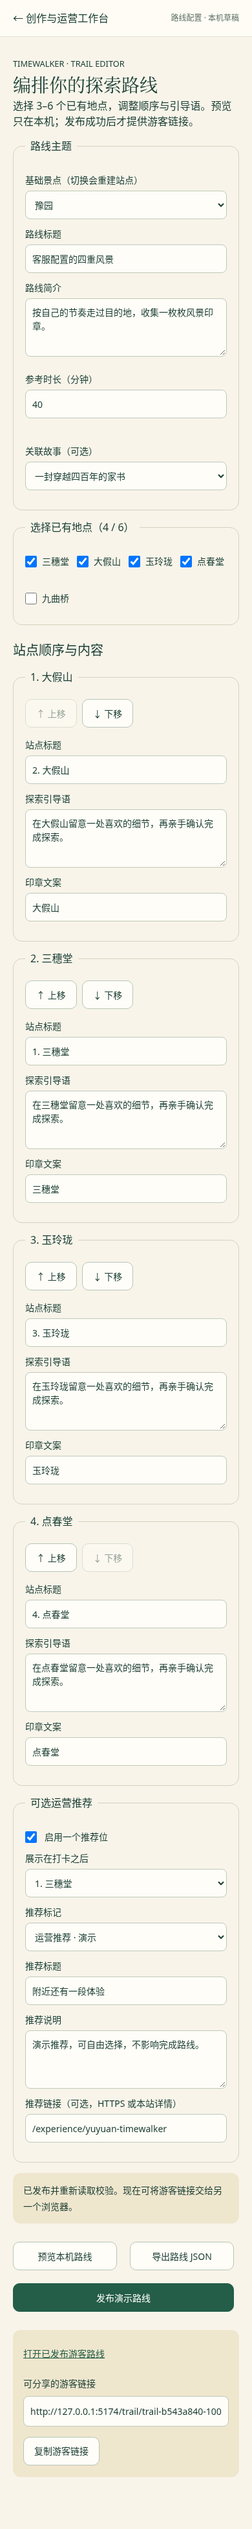
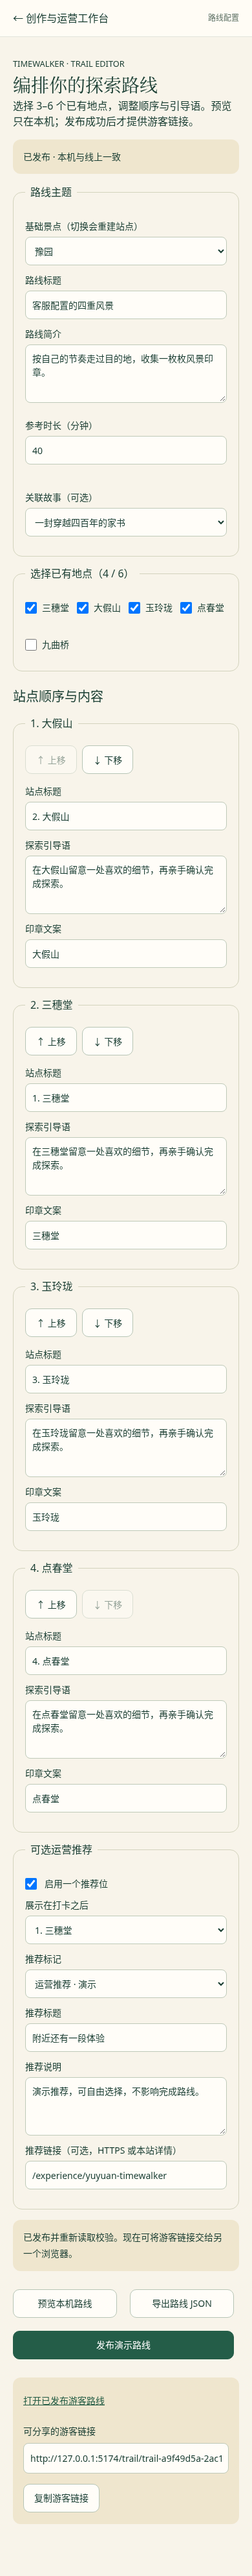
docs: prioritize V3 finish tasks and refresh verified handoff

diff --git a/docs/timewalker_hackathon/docs/03-开发任务拆解.md b/docs/timewalker_hackathon/docs/03-开发任务拆解.md
@@ -1,6 +1,6 @@
 # 当前开发任务板｜V3 双模式交付
 
-更新：2026-10-15。代码基线 `9ff2fe1` + 27 号运营续接切片；方向以 [25 号方案](25-时空漫游者-双模式产品方案与开发规划.md) 为准，实际实现见 [26](26-Trail实现与开发交接.md) / [27](27-运营续接与体验收口.md)。能力见 [导航](README.md)，接手见 [09](09-本地开发交接.md)。
+更新：2026-10-15。代码基线 `424d8c2`；方向以 [25 号方案](25-时空漫游者-双模式产品方案与开发规划.md) 为准，实际实现见 [26](26-Trail实现与开发交接.md) / [27](27-运营续接与体验收口.md)。能力见 [导航](README.md)，接手见 [09](09-本地开发交接.md)。
 
 ## Trail 已交付（不再重复搭建）
 
@@ -17,20 +17,49 @@
 
 已有故事双样板、Studio、研究/生图适配、素材导入导出继续复用，不为 Trail 引入 Agent，不重写 Story V1。
 
-## 下一步领取任务
+## 本轮已完成的完善
 
-| ID | 优先级/状态 | 交付与验收 |
+| ID | 结果 | 证据 |
 |---|---|---|
-| TW-AI-01 | P0 / 待团队凭据 | 用现有 agent:rehearse 对两题材各尝试真实生成，保存请求/模型/耗时和成功候选或失败报告，不把 mock 改成真 |
-| TW-AI-02 | P1 / 待生图账号 | 现有 Studio 给一章实际配图，携带导出→导入→采用→发布；失败可用已有图，不重写 Provider |
-| TW-DEMO-01 | P0 / 可立即做 | 三入口视觉、开场/结尾、两故事预生成 MP3 和可控声音；保留纯文字路径 |
-| TW-DEMO-02 | P0 / 可立即做 | 按 08 五分钟串联三体验、运营发布与 Studio；真机触摸/声音/下载分享；录屏与成功成果备用 |
-| TW-OPS-01 | 已完成 | 发布内容比对、查找、复制已发布版本、独立 JSON 导入、移除本机草稿；127 项 Node 和 Trail 浏览器验证，见 27 |
-| TW-OPS-02 | 已完成 | 手机长标题/简介展开、站点说明/推荐/印章换行、完整 Unicode 标题 SVG；128 项 Node、320/390px Trail、Studio/Creator 复验，见 27 |
-| 更自由剧本/自动 TTS | P2 / 后续增强 | 在现有候选契约上逐步扩展；不挤占 V3 演示，音频持久服务尚未实现 |
-| Deep Agents / 持久 Job | P2 / 暂缓 | 先验证真实 tool_calls，再封装已有工具；图片缓存和浏览器恢复不等于 Job 续跑 |
+| TW-OPS-01 | 发布内容比对、查找、复制已发布版本、独立 JSON 导入、移除本机草稿 | `6640579`；原文件与游客进度保留，目录故障标未核实 |
+| TW-OPS-02 | 长简介展开、手机长文案/印章换行、完整 Unicode 标题 SVG、异步离页保护 | `424d8c2`；128 项 Node、320/390px Trail、Studio/Creator 复验；完整轮次见 27 |
 
-缺凭据时优先做声音、真机和演示；不等待、不伪造成功。**支付、佣金、GPS、防作弊、扫码核销、真实经营报表、第二条 Trail、素材署名许可审核不进入本轮任务。**
+## 下一步领取任务（按验收顺序）
+
+估时为单人有效工作量建议，不是承诺日期。A/B/C/D 为工作线建议，由团队自行认领；不要多人重复改同一入口。
+
+| ID | 优先级 / 依赖 | 建议工作线 / 估时 | 最小成果与验收 |
+|---|---|---|---|
+| TW-AI-01 | P0 / 待团队模型凭据 | C / 0.5 日 | 两题材各真实尝试一次；请求/模型/耗时/候选或失败报告；成功候选导入 Studio→采用独立草稿→预览/发布 |
+| TW-DEMO-01 | P0 / 旁白可人工录制；设备需团队提供 | D / 0.5 日 | 两故事开场与结尾预制音频；明确静音/手动开声/失败继续文字；不依赖新 TTS 服务 |
+| TW-DEMO-02 | P0 / 真机与演示环境 | D + 集成人 / 0.5 日 | 08 五分钟从首页连续走完；iOS/Android 实测触摸、声音、刷新、卡片下载，保留录屏/卡片/失败兜底 |
+| TW-AI-02 | P1 / 待生图账号，AI-01 成功候选可复用 | C / 0.5 日 | Studio 为一章真实配图，携带导出→新环境导入→采用→发布；关闭素材网关仍可读取新包图片 |
+| TW-DEPLOY-01 | P1 / 可独立开发；不阻塞本地 Web 演示 | A / 0.5 日 | 将导出 Trail JSON 纳入静态部署的命令工具，校验基础包/故事/索引，避免人工漏改 catalog；不新增 CMS |
+| TW-EVENT-01 | P1 / 可独立开发；可视事件已存在 | B / 0.25 日 | 将本机实际事件导出为 JSON，注明浏览器范围/上限；不增加假订单、收入或跨设备指标 |
+| 更自由剧本 / 自动 TTS | P2 / 后续增强 | C | 在现有候选契约上扩展，不挤占 V3；云端音频持久服务尚未实现 |
+| Deep Agents / 持久 Job | P2 / 暂缓 | C | 先验证真实 tool_calls，再封装已有工具；图片缓存和浏览器恢复不等于 Job 续跑 |
+
+### TW-AI-01：拿到配置后直接执行
+
+1. 配置应用 `.env.server.local` 的 `DEEPSEEK_API_KEY` 等实际变量，重启 API；不要将值提交到 Git。先查看 `/api/health` 的配置状态，再真实请求判断可用性。
+2. 运行 `npm run agent:rehearse -- --attraction yuyuan-timewalker`、`npm run agent:rehearse -- --attraction shanghai-planetarium --concept 2`。Tavily 配好后再加 `--research`；不要将缺研究 Key 变成模型彩排的前置阻塞。
+3. 备份 `.agent-jobs/rehearsals` 中真实返回的 `*.studio.json` 与请求证据，导入 `/publish`。采用成新 ID 草稿，检查地点/素材/分支后发布；不替换两个手工固定样板。失败保留真实错误与上游阶段，不重复无界重试。
+4. 在 27 后续记录中写模型/时间/对应作品及实际失败。自动化替身不算此任务完成；只有失败报告表示已尝试，成功作品验收仍未达成。
+
+### TW-DEMO-01/02：内容与现场，不再先搭平台
+
+1. 复用已有 narration/audio、静音开关与文字回退。先给两份故事各准备开场、收尾的短 MP3（团队录音或已有 TTS 账号均可），明确哪些是人工录制/预生成。检查文本一致与音量；不要新接服务只为增加技术名词。
+2. 素材放入对应 `public/experience-assets/<id>/`，更新体验包资源引用；经现有编辑器/校验/打包链，测试首次默认静音、点按开声、切幕停止旧音、丢音频仍可继续。
+3. 内容更改后重新 build、`test:dual`/`test:playability` 和 `test:offline`；离线清单/大小受实际 MP3 影响。没有真实手机前只写桌面 Chromium 证据。
+4. 团队在真机和答辩浏览器按 08 计时，运营环节优先复制固定已发布版本，改一处并发布，用全新浏览器确认链接。生成慢时展示已保存产物，断网时按 07 用已准备的双故事与录屏兜底。
+
+### 下一位工程成员可直接接 TW-DEPLOY-01
+
+读取 `vite-plugin-trail-export.ts` 与 `src/trail/trailSchema.ts`，提取可复用静态写入逻辑，不另写宽松校验器。命令输入编辑器导出的 JSON，默认不覆盖已有路线，显式选项才允许替换；同时更新目录并回读。失败保持原文件/索引。测试在临时目录验证非法引用、已有 ID、目录损坏与成功后 build/preview 可访问；不要让测试写固定样板。此任务是部署准备，不是远程发布/生产鉴权后台。
+
+**当前外部依赖证据（2026-10-15）：** 当前进程未注入模型/搜索/生图 Key，应用无 `.env.server.local`，存活网关报告模型未配置。只检查存在性，不打印值。团队配置后重启并真实联调；现有适配器不需重做。真机与录屏、实际旁白文件尚未交付。
+
+缺凭据时可并行推进演示内容与独立工程任务，不伪造成功。**支付、佣金、GPS、防作弊、扫码核销、真实经营报表、第二条 Trail、素材署名许可审核不进入本轮任务。**
 
 ## 工作线与交接
 

diff --git a/docs/timewalker_hackathon/docs/团队开工速览与任务分工.md b/docs/timewalker_hackathon/docs/团队开工速览与任务分工.md
@@ -1,8 +1,8 @@
 # 时空漫游者｜团队开工速览与分工
 
-> **实施更新（2026-10-15）：** Trail 契约、豫园游客闭环、运营编辑与真实静态发布、推荐/事件和模式联动已落地，详见 [26](26-Trail实现与开发交接.md)。本文基于 e39dbd39 的“尚无/待建”是立项时状态；当前执行任务见 [03](03-开发任务拆解.md)，不要据此重做。
+> **实施更新（2026-10-15）：** Trail 契约、豫园游客闭环、运营编辑与真实静态发布、推荐/事件和模式联动已落地，详见 [26](26-Trail实现与开发交接.md)；运营续接与体验收口见 [27](27-运营续接与体验收口.md)。当前已按已交付状态更新分工；执行任务以 [03](03-开发任务拆解.md) 为准，不从立项设计重新领取已完成任务。
 
-> 对应完整方案：[25-时空漫游者-双模式产品方案与开发规划](25-时空漫游者-双模式产品方案与开发规划.md)。编写日期 2026-10-15；评审对象 `feature/timewalker-dual-samples` / `e39dbd39`。本文是开发建议，不代表新增功能已实现。
+> 对应完整方案：[25-时空漫游者-双模式产品方案与开发规划](25-时空漫游者-双模式产品方案与开发规划.md)。更新日期 2026-10-15；当前代码 `feature/timewalker-dual-samples` / `424d8c2`。本页为分工摘要，任务状态以 03 为唯一来源。
 
 ## 我们统一的三个决定
 
@@ -16,39 +16,34 @@
 
 完成 3 个游客入口（豫园故事、天文馆故事、豫园四站打卡）、1 个运营创作入口（路线编辑器 + 已有 Creative Studio）、1 套共用目的地数据和一个故事完成后进入打卡的联动。必须运行在真实的 Web 浏览器中。商业闭环不等于支付系统上线；故事和打卡之间互相推荐但互不依赖。
 
-## 直接分工（4 条工作线可并行）
+## 当前分工（先看已交付，再领剩余项）
 
-| 工作线 | 今天第一项 | 第一个可合并成果 | 后续任务 |
+| 工作线 | 已交付，不再重建 | 现在可领取 | 依赖 |
 |---|---|---|---|
-| A 数据与运营发布 | 冻结 `TrailDefinitionV1` 与四站 fixture | `assertTrail` + `/data/trails/yuyuan-four-sights.json` 加载通过 | TrailEditor、导出/开发态发布、分享 URL |
-| B 游客 Trail | 在 A 契约基础上做打卡页面 | 四站手动确认、刷新恢复、完成卡 | 推荐卡、事件记录、故事→路线入口 |
-| C AI 创作能力 | 使用团队凭据运行现有 `agent:rehearse` | 至少一份真实模型的可导入候选，记录请求与耗时 | Seedream 真实配图联调、实用音效；不先迁移 Deep Agents |
-| D 内容与演示 | 制作双故事 + 一 Trail 的 5 分钟片段 | 演示脚本、入口文案、主视觉与失败兜底 | 手机试玩、录屏、更新答辩文档 |
+| A 数据与运营发布 | Trail 契约、四站、编辑/开发态发布/回读、JSON 导入与复制 | TW-DEPLOY-01：静态部署导入工具；默认不覆盖、同步目录、实际回读 | 无新增账号；P1，不抢演示 P0 |
+| B 游客与运营体验 | 四站/进度/纪念卡、推荐/事件、Story 互通、长文案/状态/草稿管理 | TW-EVENT-01：实际本机事件导出；协助真机反馈修复 | 无新增账号；不做商业报表 |
+| C AI 创作 | Studio、研究/生图适配、可携带素材、彩排 CLI | TW-AI-01：真实模型作品；TW-AI-02：真实配图并迁移/发布 | 团队凭据；配置后重启服务 |
+| D 内容与演示 | 08 操作稿、三入口与固定双故事离线、桌面自动化证据 | TW-DEMO-01：开场/收尾声音；TW-DEMO-02：真机、计时、录屏、兜底 | 团队录音/素材、真实手机和演示网络 |
 
 **共享代码争用：** A 优先拥有 `trailSchema`/静态导出；B 优先拥有 `/trail` UI；C 负责 `server/agent`/Studio 接口；D 维护答辩稿与样板内容。`App.tsx`、`HomePage.tsx` 指定一位集成人，避免多人并发覆盖。
 
-## 5 日推进的验收线
+## 原五日目标的当前验收状态
 
 | 日期 | 保底验收 |
 |---|---|
-| D1 | 合法 Trail 静态包可读；游客四站页面能打开；双方不再争论接口格式 |
-| D2 | 游客手动打卡与完成卡从头到尾可用，刷新进度不丢 |
-| D3 | 客服/运营编辑顺序并真实发布/导出；另一个浏览器打开对应新路线 |
-| D4 | 故事与路线互跳；演示推荐可见、点击事件可查看；AI 至少完成一次实际彩排或保存失败报告 |
-| D5 | 三份体验+运营配置+Studio 预制成果五分钟串讲；Build/Lint/Node 测试与浏览器冒烟、真机回归 |
+| D1 · 已完成 | 合法 Trail 静态包可读；游客四站页面能打开；双方不再争论接口格式 |
+| D2 · 已完成 | 游客手动打卡与完成卡从头到尾可用，刷新进度不丢 |
+| D3 · 已完成 | 客服/运营编辑顺序并真实发布/导出；另一个浏览器打开对应新路线 |
+| D4 · Web 完成，真实 AI 未完成 | 故事/路线互跳、推荐和实际浏览器事件已通过；AI 真实作品仍待团队配置 |
+| D5 · 剩余重点 | 三份体验+运营配置+Studio 预制成果五分钟串讲；Build/Lint/Node 测试与浏览器冒烟、真机回归 |
 
-**如果时间缩减**：保住故事双样板与游客 Trail 闭环；运营配置可以暂时由开发者编辑 JSON，但不能自称“客服可发布”。先砍报表、第二条 Trail、复杂积分，再考虑缩减推荐位。
+**如果时间缩减**：保持已交付的双故事、游客 Trail 和运营配置/发布闭环；集中完成预制作品与五分钟演示。不新增报表、第二条 Trail 或复杂积分。
 
-## 今晚必须确认的四件事
+## 已确认的架构与剩余资源
 
-1. 是否把 Trail 作为独立 `/trail/:id` 入口？建议是；不重构 `/experience/:id`。
-2. 运营发布是否仅需开发态静态写文件 + JSON 导出？建议是；不做生产级账号权限。
-3. 商业推荐是否只是“可配置演示卡 + 点击事件”，无真实商户？建议是；如果有真实合作，单独核对目标链接。
-4. AI 是否首先完成真实凭据联调、把成功产物导入现有 Studio？建议是；Deep Agents 暂时 P2。
+独立 `/trail/:id`、开发态真实静态发布 + JSON 降级、一个可选演示推荐、显式故事联动均已实现。当前不再对这些重新立项。运营换环境可导入 JSON；素材仍依赖同一基础景点包；本机草稿/事件不随 Git 迁移。
 
-## 项目当前代码的真实边界
-
-已有：两份故事、主题与播放器、图形编辑器、Creative Studio 双概念/分幕/编译、Tavily Search/Extract 和 Seedream 生图适配、素材与成果迁移、离线双样板。**真实供应商成功调用仍缺团队凭据验证**。没有：Trail 契约/页面/运营路线编辑器、Deep Agents 框架集成、生产支付与分佣系统。最近一次阶段文档记载 117 项 Node 测试通过，但本次未重新执行。
+剩余需要团队安排的资源是模型/生图配置、短旁白音频、真机与录屏，具体执行/验收步骤在 03。Deep Agents、生产支付和分佣仍在本轮之外。最近代码验证基线为 27 的 128 项 Node、build/lint 及本轮浏览器记录；旧日志的测试数保留为历史。
 
 ---
 

diff --git a/docs/timewalker_hackathon/docs/08-五分钟答辩讲稿.md b/docs/timewalker_hackathon/docs/08-五分钟答辩讲稿.md
@@ -1,11 +1,11 @@
 # V3 五分钟答辩｜双故事、路线与运营
 
-更新：2026-10-15。方向见 [25](25-时空漫游者-双模式产品方案与开发规划.md)，实际实现见 [26](26-Trail实现与开发交接.md)，能力/证据见 [导航](README.md)。以下是可执行 Web 操作稿，时间为彩排预算，仍需人工计时。
+更新：2026-10-15。方向见 [25](25-时空漫游者-双模式产品方案与开发规划.md)，实际实现见 [26](26-Trail实现与开发交接.md) / [27](27-运营续接与体验收口.md)，能力/证据见 [导航](README.md)。以下是可执行 Web 操作稿，时间为彩排预算，仍需人工计时。
 
 ## 演示前准备
 
 - 三入口：豫园故事、天文馆讯号、`/trail/yuyuan-four-sights`。故事提前准备离线；Trail 本轮需联网。
-- `/publish` 顶部运营路线管理，预备一份新路线草稿；真实开发态发布演示需 `npm run dev:full`，静态托管只展示导出，不能说已在线发布。
+- `/publish` 顶部运营路线管理，可用「复制已发布版本」预备一份新 ID 路线草稿；真实开发态发布演示需 `npm run dev:full`，静态托管只展示导出，不能说已在线发布。
 - Studio 导入一份已完成成果。真实 Provider 产物与固定手工样板、本地模板、自动化 fixture 分开说明；现场不赌长模型/生图请求。
 - 准备 320/390px 画面、录屏和已下载卡片；真实手机上的声音、分享、下载另行试过再现场用。
 - 演示进度和导演跳幕明确说明，不把点击/跳幕称为实地到站或消费核验。
@@ -18,11 +18,11 @@
 | 0:30–1:20 | 豫园一次选择、个人观察与手账片段 | 「不是回答标准答案；你的选择改变叙事，自己的发现进入旅程记录。家书是文学创作。」 |
 | 1:20–1:55 | 天文馆开场、手动展区、航行记录 | 「从园林家书到深空讯号，同一契约和引擎，明显不同的主题表达；不使用室内定位。」 |
 | 1:55–2:55 | Trail 手动四站、印章、可选推荐、纪念卡 | 「路线独立于故事，按顺序手动探索。推荐可跳过，实际点击留在本机事件记录中，不代表订单。」 |
-| 2:55–3:35 | `/publish` 新建探索路线，改一处顺序/说明，发布后打开游客链接 | 「运营人员选已有地点、改说明，就能交付路线。开发服务真实写文件并回读，全新浏览器也能打开；本机草稿与发布有区别。」 |
+| 2:55–3:35 | `/publish` 复制已发布版本或新建路线，改一处顺序/说明，发布后打开游客链接 | 「运营人员选已有地点、改说明，就能交付路线。开发服务真实写文件并回读，全新浏览器也能打开；本机草稿与发布有区别。」 |
 | 3:35–4:30 | Studio 两概念、节拍、已保存插画、采用并编辑 | 「AI 帮故事制作，确定性工具负责路线配置。模型产物经校验成为可编辑草稿；不必为简单打卡引入智能体。」 |
 | 4:30–5:00 | 统一底座与商业边界 | 「共享目的地内容，分别承载故事与路线。今天证明可用、可配置、可分发和可观察；真实交易收入留给后续合作验证。」 |
 
-建议提前停在关键片段，不逐字朗读两篇故事。Trail 只有四次确认，可现场完整完成；若使用预置进度则明确说明。现场新建路线生成独立 ID，不覆盖固定样板。修改后点「发布演示路线」，看到“已发布并重新读取校验”再复制链接。
+建议提前停在关键片段，不逐字朗读两篇故事。Trail 只有四次确认，可现场完整完成；若使用预置进度则明确说明。现场新建、复制或导入路线均生成独立 ID，不覆盖固定样板。修改后点「发布演示路线」，看到“已发布并重新读取校验”再复制链接。
 
 ## 八页幻灯片
 
@@ -46,6 +46,6 @@
 | 有 GPS/图像识别/核销吗？ | 没有。手动确认与观察，位置和商业履约不作真实核验 |
 | Agent 是自主执行吗？ | 当前为已接入的分阶段创作/研究/生图服务；Deep Agents 自主编排仍是后续增强 |
 | 跨设备报表呢？ | 事件当前仅存本浏览器；另一浏览器可读已发布路线，但不共享事件和草稿 |
-| 技术验证多少？ | 当前 Node 125 项、build/lint 通过；浏览器最新收口结果引用 26，真实供应商和真机单列 |
+| 技术验证多少？ | 最新收口 Node 128 项、build/lint 和四套浏览器通过（27）；此前八套见 26，真实供应商和真机单列 |
 
 商业主张是可制作和分发的体验产品，不是当场证明尚未发生的收入。素材署名/许可复核不作为本轮开发或答辩门槛。

diff --git a/docs/timewalker_hackathon/docs/09-本地开发交接.md b/docs/timewalker_hackathon/docs/09-本地开发交接.md
@@ -1,6 +1,6 @@
 # 本地开发交接｜当前接手指南
 
-更新：2026-10-15；代码基线 `feature/timewalker-dual-samples` / `9ff2fe1` + [27 号续接切片](27-运营续接与体验收口.md)。状态与验证轮次见 [README](README.md)，排期只查 [03](03-开发任务拆解.md)。V3 Trail 已实现：首条游客入口 `/trail/yuyuan-four-sights`，运营新建 `/publish/trails/new`，编辑 `/publish/trails/:id`；实现详情见 [26](26-Trail实现与开发交接.md)。
+更新：2026-10-15；代码基线 `feature/timewalker-dual-samples` / `424d8c2`（[27 号续接切片](27-运营续接与体验收口.md)）。状态与验证轮次见 [README](README.md)，排期只查 [03](03-开发任务拆解.md)。V3 Trail 已实现：首条游客入口 `/trail/yuyuan-four-sights`，运营新建 `/publish/trails/new`，编辑 `/publish/trails/:id`；实现详情见 [26](26-Trail实现与开发交接.md)。
 
 ## 1. 先拿对代码
 
@@ -79,7 +79,7 @@ npm run lint
 npm run build
 ```
 
-最近运营续接切片：127 项 Node、build/lint、Trail Chromium 通过。此前 26 号 V3 轮次：125 项 Node、build/lint、八套 Chromium（含新 Trail）通过。117 项/五套与 112 项/七套属于此前素材与研究阶段。迁移后需要自己实际运行，不能把历史结果当作新机器验收。
+最近运营/长文案收口：128 项 Node、build/lint、Trail/Studio/Creator/Offline 四套 Chromium 通过。此前 26 号 V3 轮次：125 项 Node、build/lint、八套 Chromium（含新 Trail）通过。117 项/五套与 112 项/七套属于此前素材与研究阶段。迁移后需要自己实际运行，不能把历史结果当作新机器验收。
 
 浏览器脚本需要可用 Playwright/Chromium，但没有加入项目依赖。可用本机安装的包和浏览器，按需设置 `TIMEWALKER_PLAYWRIGHT_MODULE`、`TIMEWALKER_CHROMIUM`。在前后端启动后执行：
 
@@ -154,4 +154,4 @@ JS
 
 ## 8. 可复制给下一位编码助手
 
-> 继续开发 melxy1997/hackathon-trip-guide。先读 docs/timewalker_hackathon/docs/README.md、09-本地开发交接.md 和 03-开发任务拆解.md。保留本地修改，基于 feature/timewalker-dual-samples 最新 HEAD；应用在 tour-hub-web，Node 24。Agent 链、双故事和 V3 Trail 游客/运营/真实静态发布已实现，不要重做；按 25 的方向与 26 的现状推进；按 03 领取下一项。实际配置以 server/index.ts 与 .env.server.example 为准，密钥只在服务端；缺凭据继续独立工作。记录实际验证，不把模板/替身/手工样板说成真实服务成功。优先快速可用和演示效果，不分配素材署名许可审核。按切片 commit/push，更新导航、任务板与受影响操作文档，保留成员并行提交。
+> 继续开发 melxy1997/hackathon-trip-guide。先读 docs/timewalker_hackathon/docs/README.md、09-本地开发交接.md 和 03-开发任务拆解.md。保留本地修改，基于 feature/timewalker-dual-samples 最新 HEAD；应用在 tour-hub-web，Node 24。Agent 链、双故事和 V3 Trail 游客/运营/真实静态发布已实现，不要重做；按 25 的方向与 26/27 的现状推进；按 03 领取下一项。路线独立 JSON 导入/复制、发布状态识别和长文案收口也已完成。实际配置以 server/index.ts 与 .env.server.example 为准，密钥只在服务端；缺凭据继续独立工作。记录实际验证，不把模板/替身/手工样板说成真实服务成功。优先快速可用和演示效果，不分配素材署名许可审核。按切片 commit/push，更新导航、任务板与受影响操作文档，保留成员并行提交。

diff --git a/docs/timewalker_hackathon/docs/27-运营续接与体验收口.md b/docs/timewalker_hackathon/docs/27-运营续接与体验收口.md
@@ -34,13 +34,16 @@ SVG 纪念卡移除旧的 22 字截断，按完整 grapheme（含组合 Emoji）
 
 另补充异步续接保护：导入/复制正在读取基础包时离开工作台，旧响应不会创建幽灵草稿或把用户带回编辑器。
 
-切片二实际验证：**128/128 Node、build、lint 无警告通过**。扩展 `test:trail` 已通过：真实临时发布长文案路线，320/390px 展开/收起与文字边界、100/1000/600/20 字边界、全程四站、印章容纳、下载 SVG 全标题与每个文本的实际 BBox 均在画布内；另覆盖导入途中离页不写草稿。Studio 与 Creator 浏览器套件复验通过（Provider 使用明确的替身，不是实际账号）。最终构建离线回归结果在收口记录中补充。
+切片二实际验证：**128/128 Node、build、lint 无警告通过**。扩展 `test:trail` 已通过：真实临时发布长文案路线，320/390px 展开/收起与文字边界、100/1000/600/20 字边界、全程四站、印章容纳、下载 SVG 全标题与每个文本的实际 BBox 均在画布内；另覆盖导入途中离页不写草稿。Studio 与 Creator 浏览器套件复验通过（Provider 使用明确的替身，不是实际账号）。最终构建的 `test:offline` 也通过：真实 Worker 准备/损坏回滚/版本更新、豫园五轮与天文馆两分支、刷新/新标签/下载、缓存逐出与定向清理。
 
 ## 本轮提交
 
 - `6640579 feat(trail): support portable route drafts and publication status`：路线续接、发布状态、运营管理与首批交接。
-- 长文案与纪念卡切片另行提交；测试和脚本均保留真实文件写入/下载断言。
+- `424d8c2 fix(trail): preserve long copy and complete souvenir titles`：长文案、完整纪念卡、异步离页保护与回归。
+- 本轮共四套浏览器验收（Trail、Studio、Creator、Offline）。Builder、Dual、Smoke、Playability 本轮未重跑；26 中的八套是此前独立轮次。
+
+文档收口检查：根 README 与本目录相关共 29 份 Markdown、221 个本地链接、23 段 Bash 语法及 npm 脚本名检查通过。三张 Trail 实际界面截图已更新。
 
 ## 下一位接手
 
-按 [03](03-开发任务拆解.md) 领取未完成任务。开发态静态发布不是生产 CMS；本机事件不是跨设备运营报表；Trail 暂不进入固定离线包。不要为演示补做支付/佣金/GPS、第二条 Trail 或 Deep Agents 迁移。
+按 [03](03-开发任务拆解.md) 领取未完成任务：P0 真实模型/短旁白/真机与五分钟录屏；P1 真实配图、静态部署导入命令与本机事件导出。03 已写依赖、建议工作线、估时、实际操作和验收，团队开工速览同步为当前分工。开发态静态发布不是生产 CMS；本机事件不是跨设备运营报表；Trail 暂不进入固定离线包。不要为演示补做支付/佣金/GPS、第二条 Trail 或 Deep Agents 迁移。

diff --git a/README.md b/README.md
@@ -315,11 +315,11 @@ tour-hub-web/public/experience-assets/
 | Deep Agents、自主工具调用、云端 TTS | 📐 后续增强 | 当前无需为新增 Trail 先引入这些依赖 |
 | 交易支付 / 商户结算 / GPS 核销 | — 不属于本轮 | 商业机会仅阐释未来验证路径 |
 
-最近运营续接切片 **127 项 Node、build/lint、扩展 Trail Chromium 通过**，见 [27](docs/timewalker_hackathon/docs/27-运营续接与体验收口.md)。此前 V3 **125 项 Node 测试、build、lint 及八套 Chromium 验收全部通过**，新增 Trail 冒烟覆盖真实临时发布与全新浏览器访问；详细结果见 [26](docs/timewalker_hackathon/docs/26-Trail实现与开发交接.md)。真实 DeepSeek、Tavily、Seedream 调用也应单独保留成功记录，不能用替身测试代替。
+最近运营/体验收口 **128 项 Node、build/lint、Trail/Studio/Creator/Offline 四套 Chromium 通过**，见 [27](docs/timewalker_hackathon/docs/27-运营续接与体验收口.md)。此前 V3 **125 项 Node 测试、build、lint 及八套 Chromium 验收全部通过**，新增 Trail 冒烟覆盖真实临时发布与全新浏览器访问；详细结果见 [26](docs/timewalker_hackathon/docs/26-Trail实现与开发交接.md)。真实 DeepSeek、Tavily、Seedream 调用也应单独保留成功记录，不能用替身测试代替。
 
 ## 🧭 V3 后续开发路线
 
-以 [25 · V3 详细方案](docs/timewalker_hackathon/docs/25-时空漫游者-双模式产品方案与开发规划.md) 和 [团队开工分工](docs/timewalker_hackathon/docs/团队开工速览与任务分工.md) 为新需求依据。D1–D4 的 Web 闭环已交付；当前继续 D5 的真实成果、声音、真机与演示收口。具体状态见 03 和 26。
+以 [25 · V3 详细方案](docs/timewalker_hackathon/docs/25-时空漫游者-双模式产品方案与开发规划.md) 和 [团队开工分工](docs/timewalker_hackathon/docs/团队开工速览与任务分工.md) 为新需求依据。D1–D4 的 Web 闭环已交付；当前继续 D5 的真实成果、声音、真机与演示收口。具体任务、依赖、建议分工与逐项验收见 [03](docs/timewalker_hackathon/docs/03-开发任务拆解.md)，实现见 26/27。
 
 | 切片 | 实现内容 | 验收标志 |
 |---|---|---|

diff --git a/docs/timewalker_hackathon/docs/25-时空漫游者-双模式产品方案与开发规划.md b/docs/timewalker_hackathon/docs/25-时空漫游者-双模式产品方案与开发规划.md
@@ -1,6 +1,6 @@
 # 时空漫游者 Timewalker｜双模式项目方案与后续开发规划
 
-> **实施更新（2026-10-15）：** Trail 契约、豫园游客闭环、运营编辑与真实静态发布、推荐/事件和模式联动已落地，详见 [26](26-Trail实现与开发交接.md)。本文基于 e39dbd39 的“尚无/待建”是立项时状态；当前执行任务见 [03](03-开发任务拆解.md)，不要据此重做。
+> **实施更新（2026-10-15）：** Trail 契约、豫园游客闭环、运营编辑与真实静态发布、推荐/事件和模式联动已落地，详见 [26](26-Trail实现与开发交接.md)；运营续接与长文案收口见 [27](27-运营续接与体验收口.md)。本文基于 e39dbd39 的“尚无/待建”是立项时状态；当前执行任务见 [03](03-开发任务拆解.md)，不要据此重做。
 
 > **版本**：V1.0｜2026-10-15｜团队方向对齐与开发实施稿  
 > **代码基线**：`melxy1997/hackathon-trip-guide` · `feature/timewalker-dual-samples` · `e39dbd39`  

diff --git a/docs/timewalker_hackathon/docs/README.md b/docs/timewalker_hackathon/docs/README.md
@@ -52,7 +52,7 @@ V3 初轮实现见 [26-Trail实现与开发交接](26-Trail实现与开发交接
 
 | 轮次 | 已记录结果 |
 |---|---|
-| 运营续接，27 号切片一 | 127/127 Node、build/lint、扩展 Trail Chromium 通过；未重跑其他浏览器套件 |
+| 运营续接与体验收口，至 `424d8c2` | 128/128 Node、build/lint、Trail/Studio/Creator/Offline 四套 Chromium 通过；其他四套本轮未重跑 |
 | V3 Trail，代码至 `935fd99` | 125/125 Node、build/lint、Trail 与原有七套共八套 Chromium 通过；含最终构建真实 Worker 离线复验 |
 | 素材闭环，代码至 `d918461` | 117/117 Node 测试、build、lint 无警告；Studio、Creator、Builder、Dual、Offline 五套 Chromium 通过 |
 | 前一轮研究/成果交接，至 `e0c449d` | 112/112 Node 测试、build、lint；全部七套 Chromium 通过，包含 Smoke、Playability |

diff --git a/docs/timewalker_hackathon/docs/26-Trail实现与开发交接.md b/docs/timewalker_hackathon/docs/26-Trail实现与开发交接.md
@@ -1,6 +1,6 @@
 # 26｜V3 Trail 实现与开发交接
 
-2026-10-15。分支 `feature/timewalker-dual-samples`，基于 `1eb7d2d`。按 [25 号方案](25-时空漫游者-双模式产品方案与开发规划.md) 实现独立 Trail，不修改 Story V1 动作或故事引擎。本页记录实际实现，25 是目标方案。
+2026-10-15。分支 `feature/timewalker-dual-samples`，基于 `1eb7d2d`。按 [25 号方案](25-时空漫游者-双模式产品方案与开发规划.md) 实现独立 Trail，不修改 Story V1 动作或故事引擎。本页记录初轮实际实现，25 是目标方案；后续运营迁移、状态识别、长文案和最新验证见 [27](27-运营续接与体验收口.md)。
 
 ## 切片一：契约与游客探索
 
